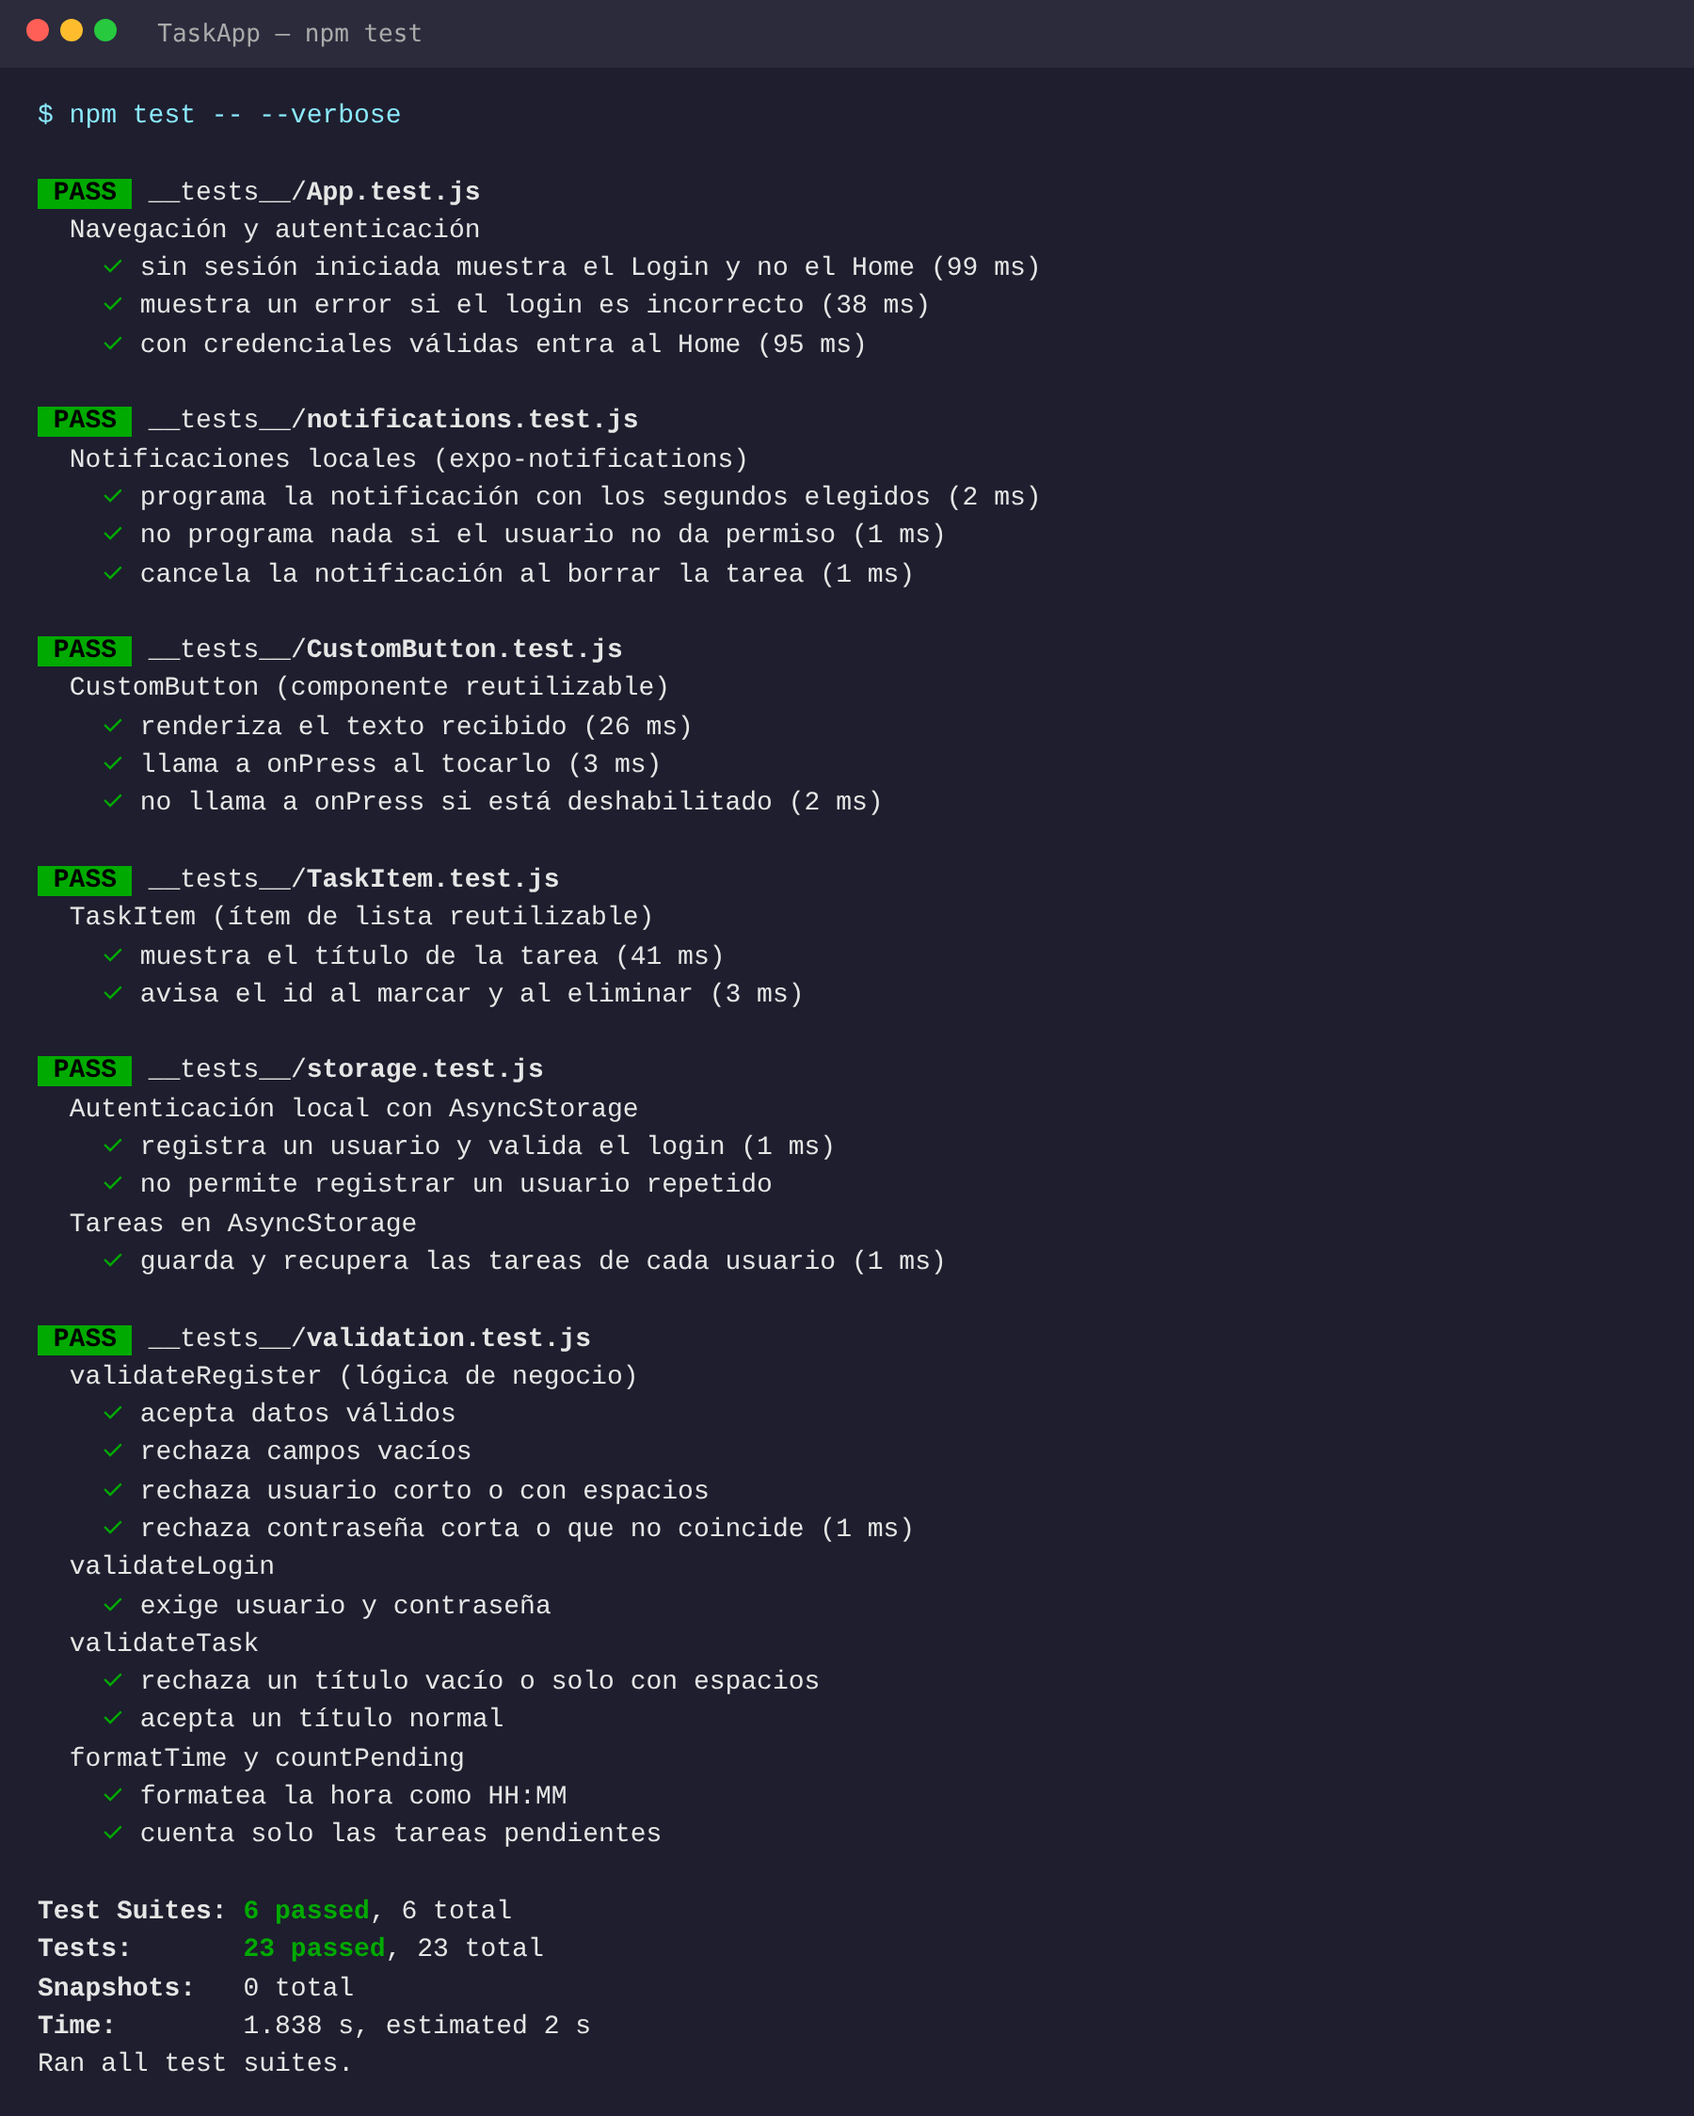
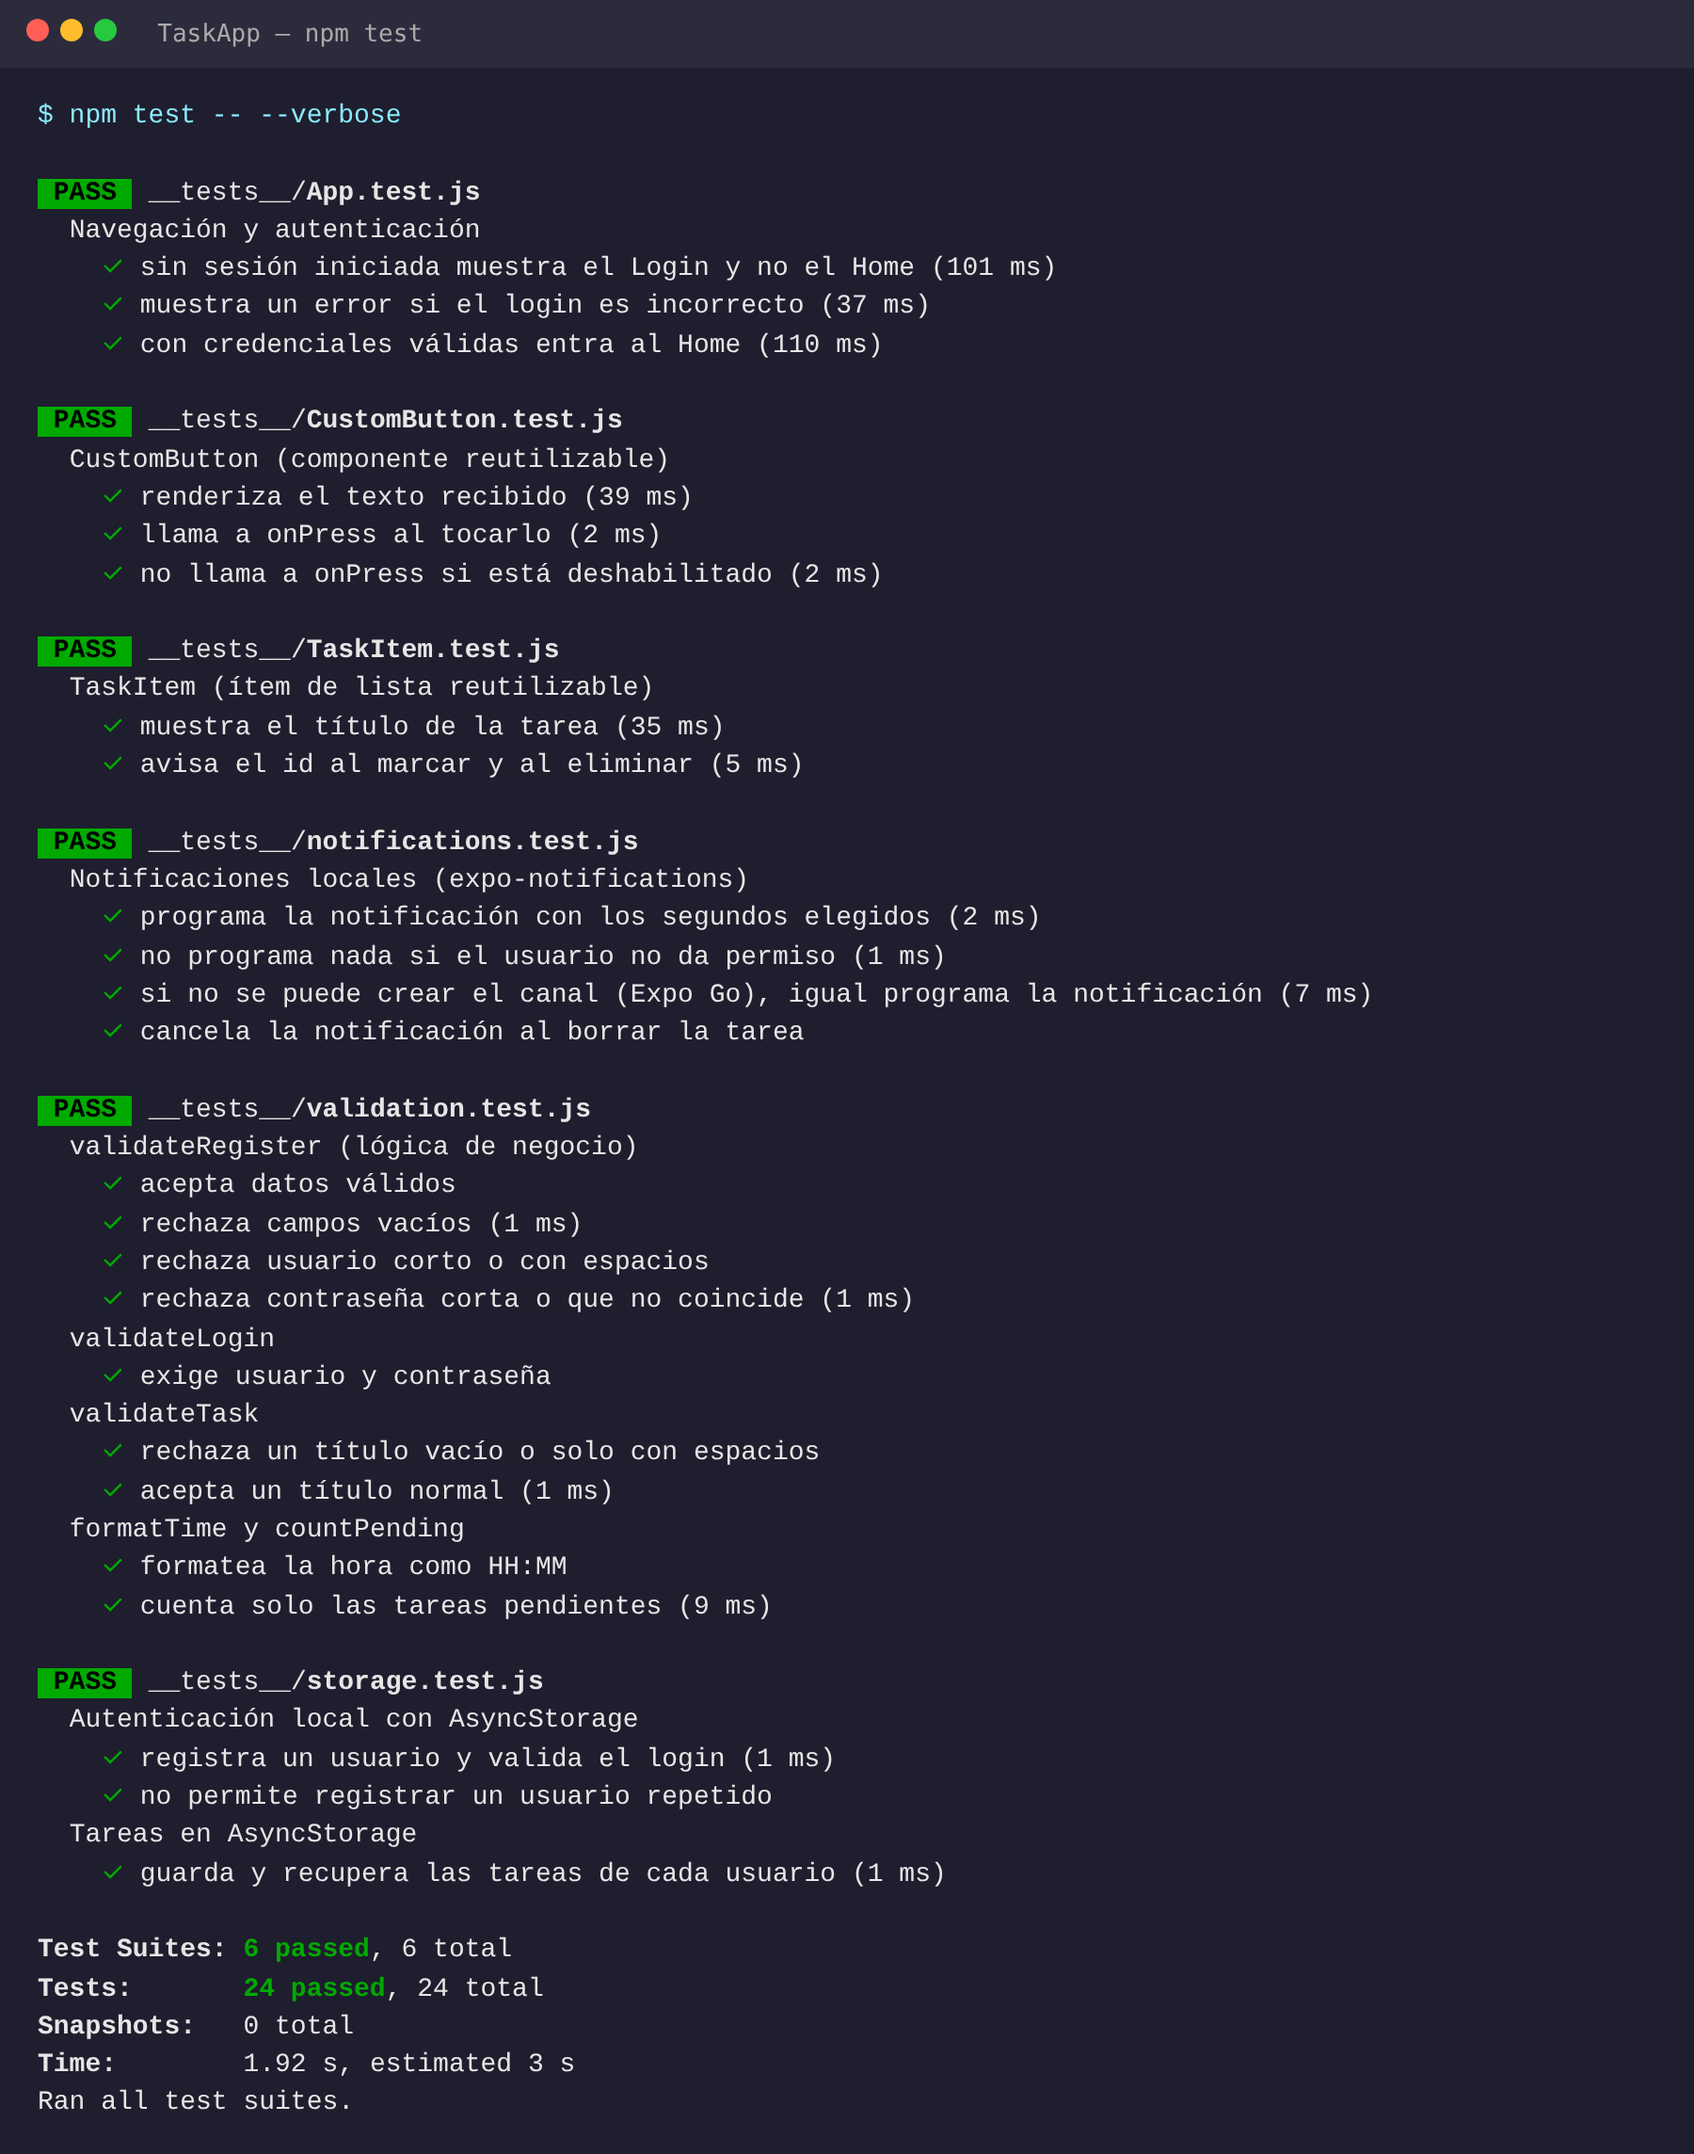
En Expo Go usa el canal de notificaciones por defecto si no se puede crear uno propio
Claude-Session: https://claude.ai/code/session_01QxBjUrJEYbEWoDokB9zDrU

diff --git a/src/services/notifications.js b/src/services/notifications.js
@@ -13,14 +13,28 @@ Notifications.setNotificationHandler({
   }),
 });
 
-/** Pide permiso (Android 13+ / iOS) y crea el canal de notificaciones. */
-export async function setupNotifications() {
-  if (Platform.OS === 'android') {
+/**
+ * Crea el canal "Recordatorios de tareas" en Android.
+ * En Expo Go no se pueden crear canales propios: en ese caso devuelve false
+ * y la notificación usa el canal por defecto.
+ */
+async function createChannel() {
+  if (Platform.OS !== 'android') {
+    return false;
+  }
+  try {
     await Notifications.setNotificationChannelAsync(CHANNEL_ID, {
       name: 'Recordatorios de tareas',
       importance: Notifications.AndroidImportance.HIGH,
     });
+    return true;
+  } catch (e) {
+    return false;
   }
+}
+
+/** Pide permiso para mostrar notificaciones (Android 13+ / iOS). */
+export async function requestPermission() {
   const {status} = await Notifications.requestPermissionsAsync();
   return status === 'granted';
 }
@@ -32,10 +46,11 @@ export async function setupNotifications() {
  * @returns id de la notificación (para poder cancelarla), o null si no hay permiso
  */
 export async function scheduleTaskReminder(title, seconds) {
-  const granted = await setupNotifications();
+  const granted = await requestPermission();
   if (!granted) {
     return null;
   }
+  const hasChannel = await createChannel();
   return Notifications.scheduleNotificationAsync({
     content: {
       title: '⏰ Tarea pendiente',
@@ -45,7 +60,7 @@ export async function scheduleTaskReminder(title, seconds) {
     trigger: {
       type: Notifications.SchedulableTriggerInputTypes.TIME_INTERVAL,
       seconds,
-      channelId: CHANNEL_ID,
+      ...(hasChannel ? {channelId: CHANNEL_ID} : {}),
     },
   });
 }

diff --git a/__tests__/notifications.test.js b/__tests__/notifications.test.js
@@ -27,6 +27,17 @@ describe('Notificaciones locales (expo-notifications)', () => {
     expect(Notifications.scheduleNotificationAsync).not.toHaveBeenCalled();
   });
 
+  it('si no se puede crear el canal (Expo Go), igual programa la notificación', async () => {
+    Notifications.scheduleNotificationAsync.mockClear();
+    Notifications.setNotificationChannelAsync.mockRejectedValueOnce(
+      new Error('NotificationsChannelsProvider null'),
+    );
+    expect(await scheduleTaskReminder('Estudiar', 5)).toBe('notif-id');
+    const {trigger} = Notifications.scheduleNotificationAsync.mock.calls[0][0];
+    expect(trigger.seconds).toBe(5);
+    expect(trigger.channelId).toBeUndefined();
+  });
+
   it('cancela la notificación al borrar la tarea', async () => {
     await cancelReminder('notif-id');
     expect(Notifications.cancelScheduledNotificationAsync).toHaveBeenCalledWith(

diff --git a/README.md b/README.md
@@ -22,7 +22,7 @@ Trabajo práctico individual de React Native – Istea.
 | **Persistencia (AsyncStorage)** | Se guardan los usuarios, la sesión activa y las tareas de **cada usuario por separado**. Los datos siguen al cerrar y volver a abrir la app. |
 | **Crear elementos** | Pantalla **Nueva tarea** con título y recordatorio. Además (opcional): marcar como hecha ✓, **eliminar** con confirmación y contador de pendientes. |
 | **Notificación local** | Con **expo-notifications** (sin Firebase). Al crear una tarea se elige el aviso (**5 seg** por defecto, 10 seg, 1 min, 5 min o 30 min) y llega la notificación “⏰ Tarea pendiente”. Si se borra la tarea, el aviso se cancela. |
-| **Tests** | Jest (`jest-expo`) + React Native Testing Library: **23 tests en 6 archivos**, se corren todos con `npm test`. |
+| **Tests** | Jest (`jest-expo`) + React Native Testing Library: **24 tests en 6 archivos**, se corren todos con `npm test`. |
 
 ### Tests (`__tests__/`)
 
